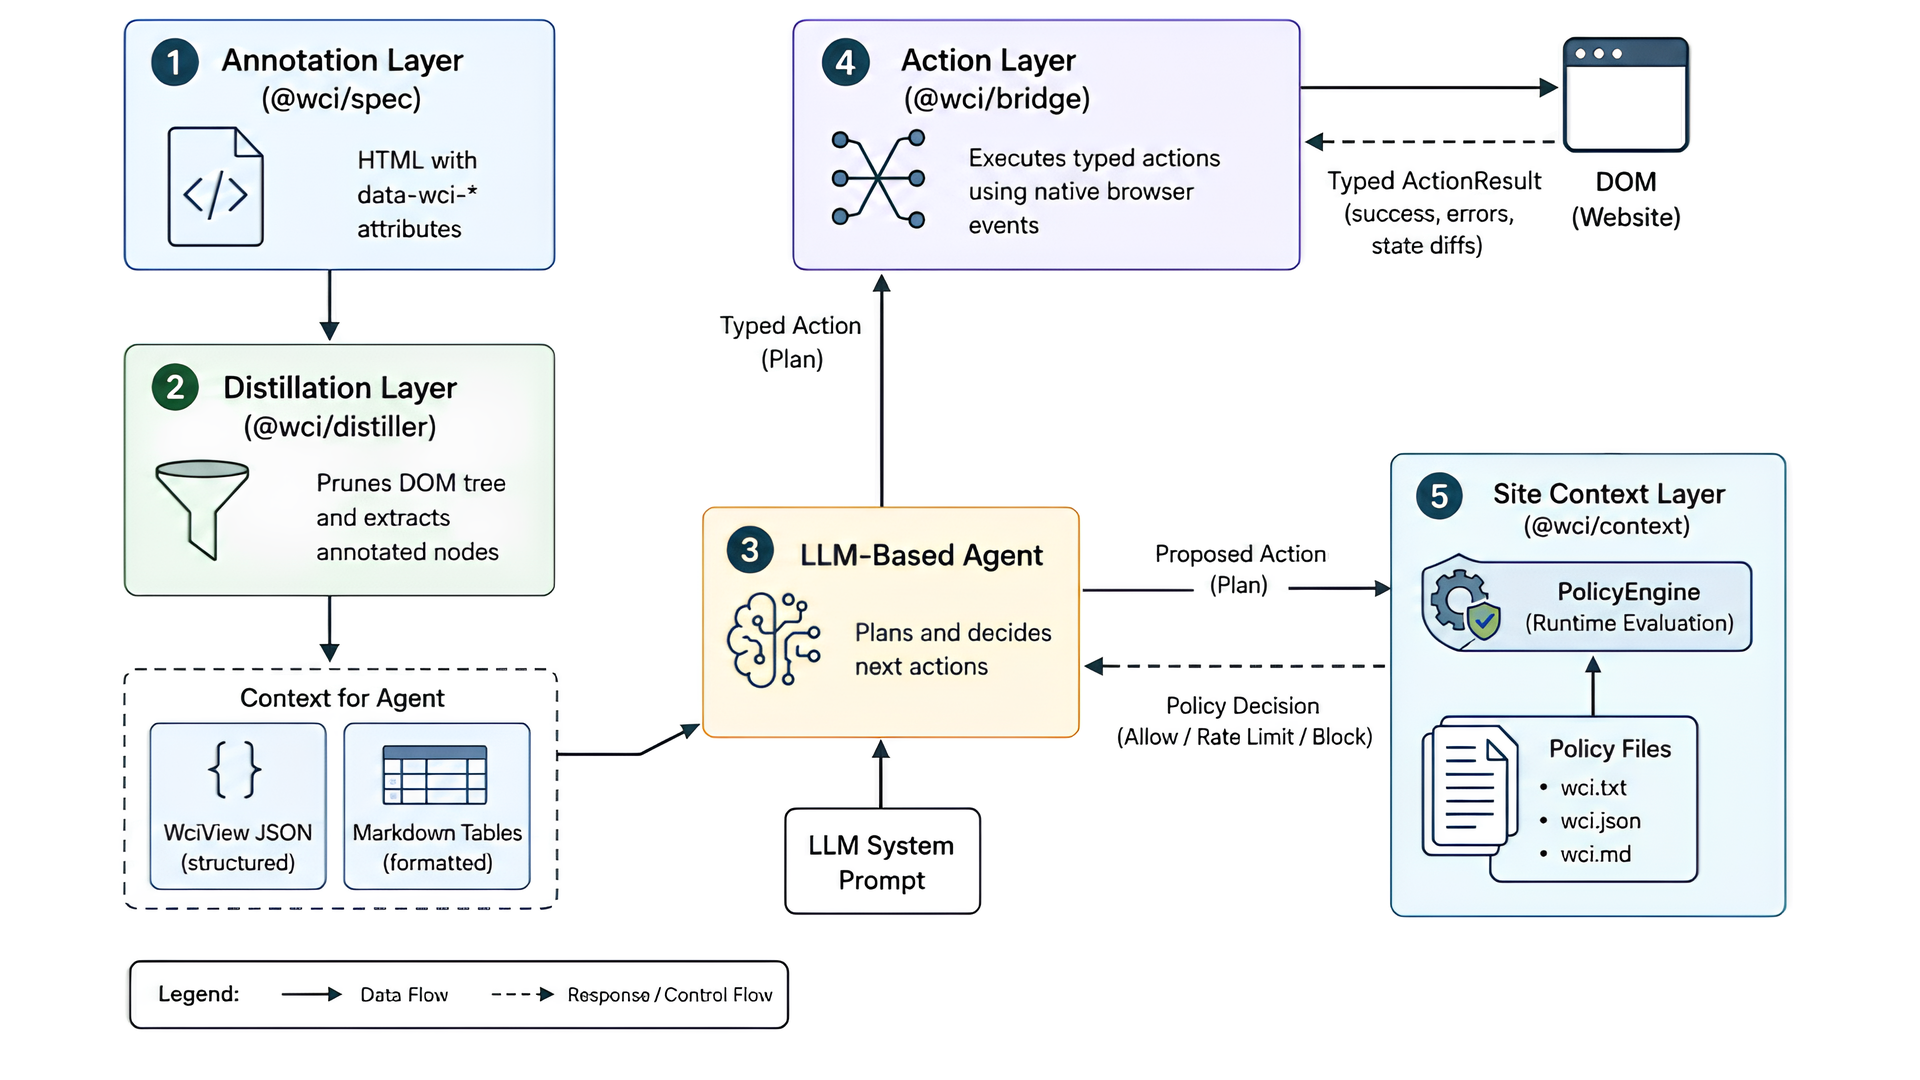
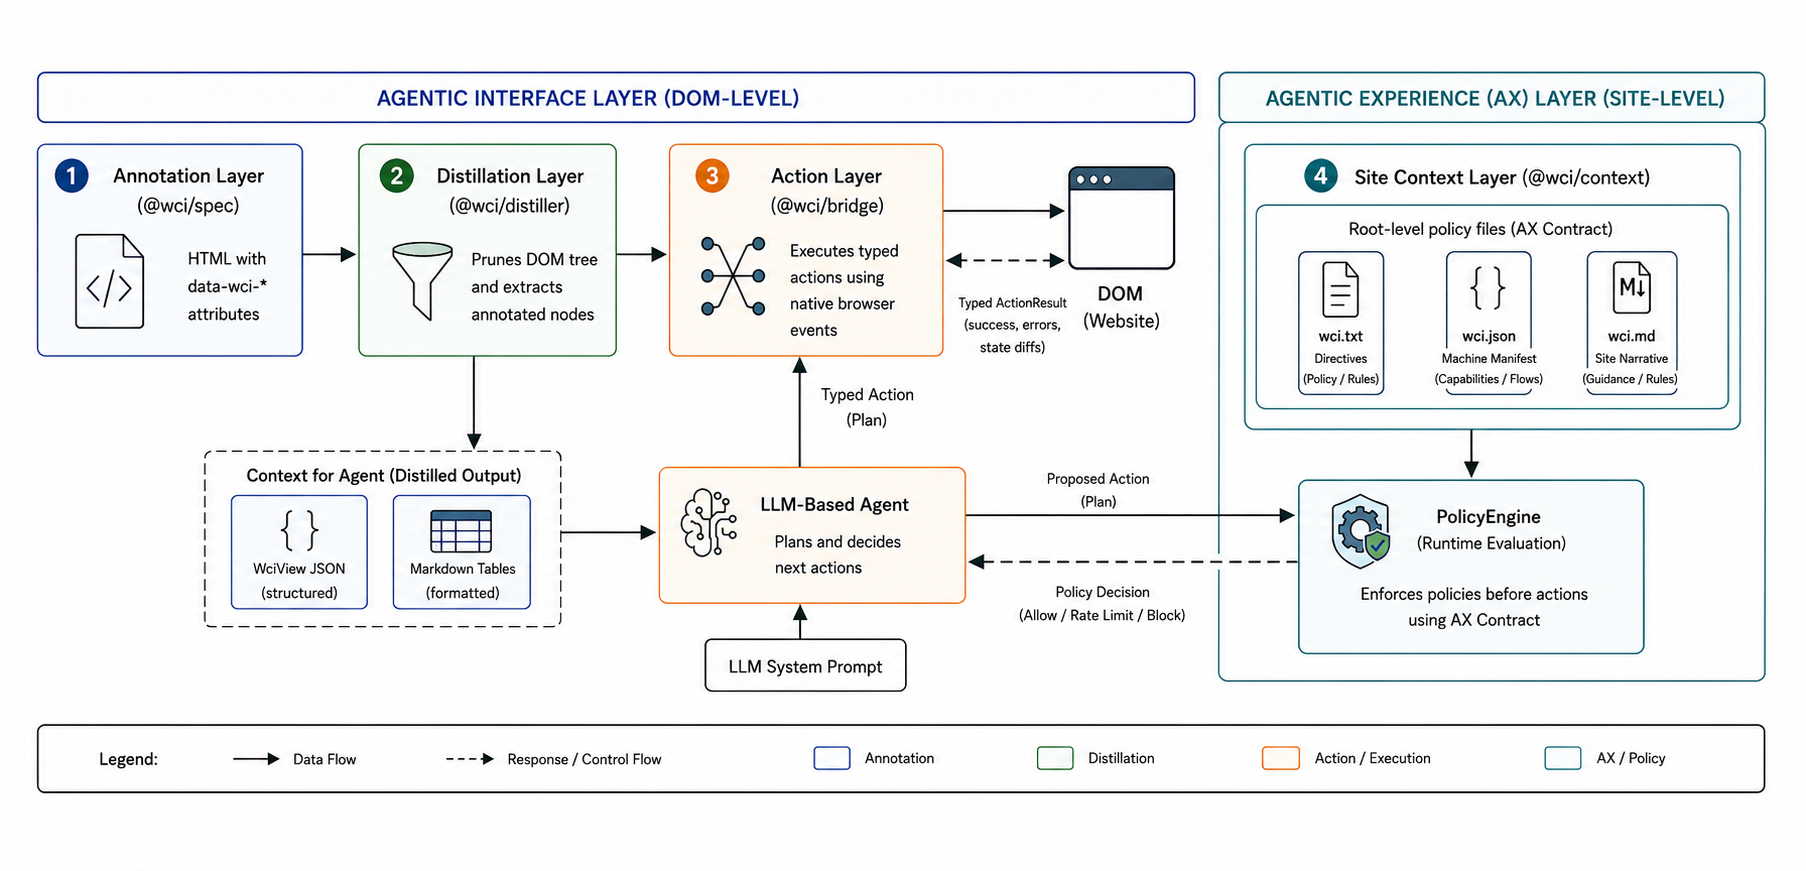
Update evaluation results timestamp in JSON and enhance documentation links in index.md for better accessibility.

diff --git a/docs/index.md b/docs/index.md
@@ -66,7 +66,7 @@ The official **50-scenario** grounding benchmark is published on Zenodo (CC BY 4
 - **DOI:** [10.5281/zenodo.20434088](https://doi.org/10.5281/zenodo.20434088)
 - **Download:** [`scenarios.zip`](https://zenodo.org/records/20434088/files/scenarios.zip?download=1)
 
-Each scenario includes raw HTML, DOM outline, interactive candidates, WCI full, and WCI grounding representations. The in-repo copy lives under [`demo/scenarios/`](../demo/scenarios/); methodology and commands are in [`evals/README.md`](../evals/README.md).
+Each scenario includes raw HTML, DOM outline, interactive candidates, WCI full, and WCI grounding representations. The in-repo copy lives under [`demo/scenarios/`](https://github.com/amirrezaalasti/webcontextinterface/tree/main/demo/scenarios); methodology and commands are in [`evals/README.md`](https://github.com/amirrezaalasti/webcontextinterface/blob/main/evals/README.md).
 
 ## NotebookLM
 